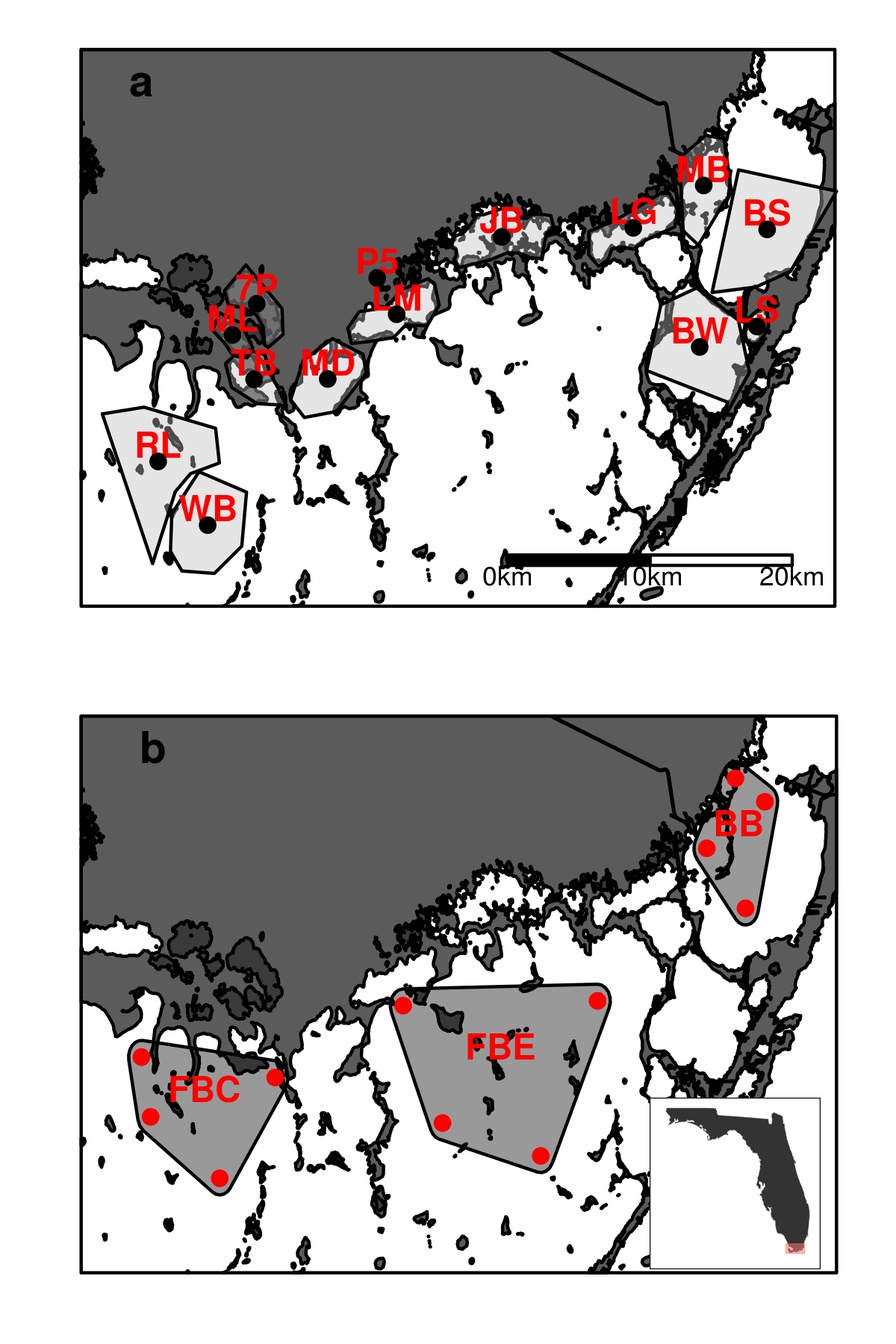
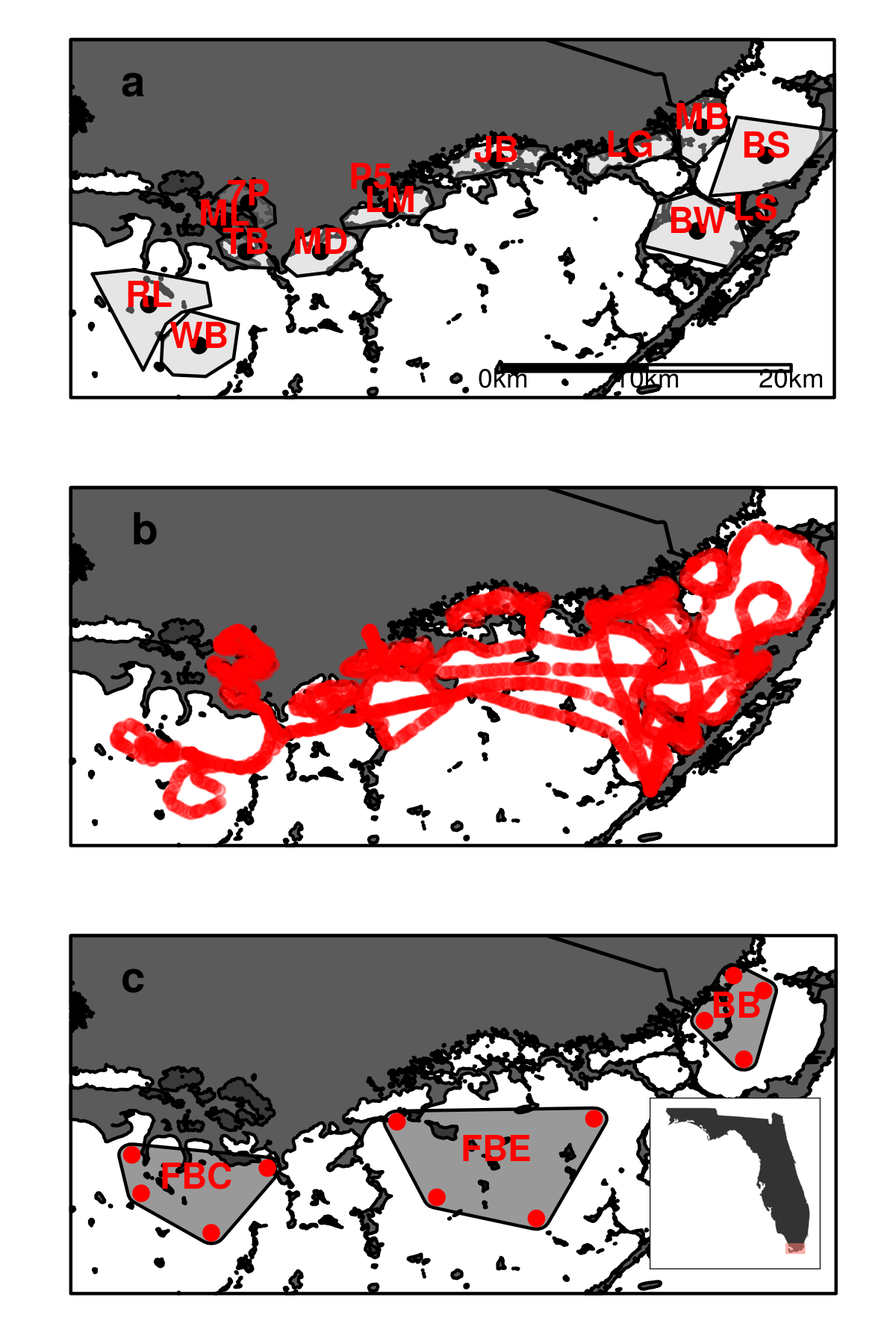
add dflow track panel to figure 1

diff --git a/manuscripts/ecss/dataflowchl.tex b/manuscripts/ecss/dataflowchl.tex
@@ -94,7 +94,7 @@ The Florida Bay estuary is fed by direct precipitation as well as a combination 
 
 \subsection{Underway-discrete sampling}
 
-We developed a method to better constrain estimates of phytoplankton abundance (using chlorophyll a as a proxy and referred to as chlorophyll hereafter) and to better identify within-basin variability in such estimates. Our method involves the use of a boat-mounted flow-through collection system \citep[Dataflow;][]{madden1992instrument} whereby a suite of optical probes are operated in tandem with discrete sample collection. While the boat is underway, the Dataflow receives a continuous stream of water from an onboard pump that is routed to a series of sensors operating in flow-through mode. These sensors measure the physical and optical properties of water passing through the system at 6 second intervals (approximately every 40-70 m of boat travel). The primary optical sensor package includes probes to measure  colored dissolved organic matter (CDOM), phycocyanin (PC), phycoerythrin (PE), turbidity, and chlorophyll fluorescence (Cyclops-7 Series; Turner Designs; Sunnyvale CA, USA). A second optical sensor package, which operates in tandem, includes probes to measure CDOM and chlorophyll fluorescence (GEOSAI SA de CV). Measurements are georeferenced by an onboard GPS unit with a horizontal accuracy of ± 250 cm. Each Dataflow survey took place on a quarterly to bi-monthly basis from 2008 - 2015 and was supplemented by a set of concomitant discrete grab samples located in a representative basin or area of distinct water quality (Figure 1a). These samples were collected from the Dataflow outflow hose while underway and were analyzed in the laboratory for chlorophyll concentration via pigment extraction as well as a suite of organic and inorganic nutrient species (Table 1). Laboratory analyses followed the methods described in \citet{childers_relating_2006}.
+We developed a method to better constrain estimates of phytoplankton abundance (using chlorophyll a as a proxy and referred to as chlorophyll hereafter) and to better identify within-basin variability in such estimates. Our method involves the use of a boat-mounted flow-through collection system \citep[Dataflow;][]{madden1992instrument} whereby a suite of optical probes are operated in tandem with discrete sample collection. While the boat is underway, the Dataflow receives a continuous stream of water from an onboard pump that is routed to a series of sensors operating in flow-through mode. These sensors measure the physical and optical properties of water passing through the system at 6 second intervals (approximately every 40-70 m of boat travel). The primary optical sensor package includes probes to measure  colored dissolved organic matter (CDOM), phycocyanin (PC), phycoerythrin (PE), turbidity, and chlorophyll fluorescence (Cyclops-7 Series; Turner Designs; Sunnyvale CA, USA). A second optical sensor package, which operates in tandem, includes probes to measure CDOM and chlorophyll fluorescence (GEOSAI SA de CV). Measurements are georeferenced by an onboard GPS unit with a horizontal accuracy of ± 250 cm. Each Dataflow survey took place on a quarterly to bi-monthly basis from 2008 - 2015 and was supplemented by a set of concomitant discrete grab samples located in a representative basin or area of distinct water quality (Figure 1a, 1b). These samples were collected from the Dataflow outflow hose while underway and were analyzed in the laboratory for chlorophyll concentration via pigment extraction as well as a suite of organic and inorganic nutrient species (Table 1). Laboratory analyses followed the methods described in \citet{childers_relating_2006}.
 
 For each survey, we used multiple linear regression to model the chlorophyll concentration of the underway discrete grab samples as a function of corresponding optical measurements \citep{seppala_ship_opportunity_2007,seppala_multivariate_2008}. Initial regressions included all available optical measurements. These “full“ models were subject to a model selection procedure where the goodness-of-fit and complexity of candidate models were compared using Akaike information criterion \citep[AIC;][]{venables2002modern}. Several models with the lowest AIC values were further investigated to examine normality of residuals and avoid multicollinearity. Also, we checked that coefficients had a logically consistent sign in cases where we had strong prior belief (e.g. the coefficient of chlorophyll fluorescence should be positive). 
 Final models were applied to the full streaming dataset to estimate chlorophyll concentration in areas where underway discrete grab samples were not collected. In order to avoid model extrapolation, calculated values that exceeded the maximum concentration in the discrete sample set were discarded. Due to the presence of many land barriers throughout the study area, the resulting georeferenced datasets were spatially interpolated using Inverse Path Distance Weighting (IPDW) according to the methods described in \citet{stachelek_application_2015}. IPDW is similar to the more typical Inverse Distance Weighting (IDW) procedure except that distances are "in-water” path distances rather than "as-the-crow-flies" straight line distances. This prevents interpolations from bleeding through” land barriers. All statistical analyses and interpolation routines were performed using R, the ipdw package, and the DataflowR package \citep{rcore_2015,dataflowr, ipdw}. All code used to generate figures and tables is available from \citet{dataflowchl} and all data used in this study are available for download \citep{madden2017}.
@@ -105,43 +105,43 @@ We considered two approaches for quantifying water quality boundaries. The first
 
 \subsection{Discrete data collection}
 
-We used data from an independent long-term (1993-2015) water quality monitoring program to contrast findings from a typical discrete sampling program with the results from our combined underway-discrete sampling efforts. These data come from a monitoring program of the South Florida Water Management District and are freely available via the DBHYDRO database \citep{dbhydror}. For visualization purposes, the data was split into geographic regions encompassing three distinct sections of our study area, Biscayne Bay, eastern Florida Bay, and central Florida Bay following \citet{boyer_seasonal_1999} in the open water portions of Florida Bay (Figure 1b). The area covered by this network is more limited than the Dataflow footprint which also includes several saline lakes and semi-enclosed embayments within the wetland zone adjacent to the bay. Data from this longer-term dataset were used as an independent check to verify our underway measurements and interpolated surfaces (See Appendix Table A1).
+We used data from an independent long-term (1993-2015) water quality monitoring program to contrast findings from a typical discrete sampling program with the results from our combined underway-discrete sampling efforts. These data come from a monitoring program of the South Florida Water Management District and are freely available via the DBHYDRO database \citep{dbhydror}. For visualization purposes, the data was split into geographic regions encompassing three distinct sections of our study area, Biscayne Bay, eastern Florida Bay, and central Florida Bay following \citet{boyer_seasonal_1999} in the open water portions of Florida Bay (Figure 1c). The area covered by this network is more limited than the Dataflow footprint which also includes several saline lakes and semi-enclosed embayments within the wetland zone adjacent to the bay. Data from this longer-term dataset were used as an independent check to verify our underway measurements and interpolated surfaces (See Appendix Table A1).
 
 \section{Results}
 
-We observed two notable features in the long-term discrete chlorophyll record. First, we observed a declining trend in the central bay (Figure 2a). Average chlorophyll concentration was 2.2 ± 0.05 from 2001 to 2008 but was only 1.3 ± 0.04 from 2008 to 2015. Second, we observed a period of exceptionally high chlorophyll concentrations in 2005 associated with an algal bloom event in Barnes Sound \citep{rudnick_2006}. Following recovery from the 2005 bloom event, chlorophyll concentrations were almost exclusively lower than 2 in all three regions of the open bay (Figure 2b). Exceptions to this threshold occurred following the summer of 2009, which was preceded by a major drought, and following the summer of 2012 when cumulative precipitation was the highest of any year during the study period (151.8 cm versus an annual median of 125.3 cm).
+We observed two notable features in the long-term discrete chlorophyll record. First, we observed a declining trend in the central bay (Figure 2a). Average chlorophyll concentration was 2.2 $\pm$ 0.05 from 2001 to 2008 but was only 1.3 $\pm$ 0.04 from 2008 to 2015. Second, we observed a period of exceptionally high chlorophyll concentrations in 2005 associated with an algal bloom event in Barnes Sound \citep{rudnick_2006}. Following recovery from the 2005 bloom event, chlorophyll concentrations were almost exclusively lower than 2 in all three regions of the open bay (Figure 2b). Exceptions to this threshold occurred following the summer of 2009, which was preceded by a major drought, and following the summer of 2012 when cumulative precipitation was the highest of any year during the study period (151.8 cm versus an annual median of 125.3 cm).
 
-We investigated the incidence of elevated chlorophyll in more detail by examining correlations between chlorophyll and individual nutrient species (Table 1). Chlorophyll was most strongly correlated with total phosphorus (Spearman’s ρ = 0.74, p < 0.05) and particulate phosphorus (Spearman’s ρ = 0.90, p < 0.05). Note that such correlations do not necessarily demonstrate a relationship between phytoplankton abundance and a given nutrient species because of the possibility that high nutrient concentrations do not represent bioavailable nutrients but instead represent cellular bound material within existing phytoplankton cells.  
+We investigated the incidence of elevated chlorophyll in more detail by examining correlations between chlorophyll and individual nutrient species (Table 1). Chlorophyll was most strongly correlated with total phosphorus (Spearman’s ρ = 0.74, p $<$ 0.05) and particulate phosphorus (Spearman’s ρ = 0.90, p $<$ 0.05). Note that such correlations do not necessarily demonstrate a relationship between phytoplankton abundance and a given nutrient species because of the possibility that high nutrient concentrations do not represent bioavailable nutrients but instead represent cellular bound material within existing phytoplankton cells.  
 
 We found that spatially comprehensive estimates of phytoplankton abundance were subject to less uncertainty when estimated on the basis of combined underway-discrete sampling. In particular, there were relatively few surveys where the best model only included chlorophyll fluorescence (Table 2). In general, the performance of these chlorophyll only models was poor relative to their multivariate counterparts with respect to their coefficients of determination and p-value (Table 2). One of the primary reasons for improved estimates was the fact that underway-discrete sampling included not only chlorophyll fluorescence but also potential interference materials. For example, the variables selected during interpolation model-selection often included phycocyanin and CDOM (Table 2). The selection of phycocyanin as a model variable was not associated with any particular season while CDOM was an important variable only during the dry season surveys (Table 2). 
 
-In some ways, the spatial distribution of phytoplankton abundance estimated from strictly discrete sampling matched our estimates made on the basis of combined discrete and underway sampling. Both estimates showed a general decreasing west to east chlorophyll gradient and both showed particularly low chlorophyll concentrations in the eastern bay relative to the central bay or Barnes Sound regions (Figure 2, 3, 5). In addition, both estimates showed a similarly sized chlorophyll peak in the central bay in late 2012 (Figure 2, 5). However, despite the superficial similarities between the spatial patterns recovered by strictly discrete sampling and by our underway-discrete sampling approach, there were marked differences in their within-basin spatial variability (Figure 3, 5). This was evident in the fact that the locations and shapes of water quality boundaries estimated on the basis of underway sampling did not correspond to those that used strictly discrete data (Figure 2, 3, 5). In contrast to the discrete sampling results (with the exception of July and September 2015), our underway-discrete maps did not show distinct water quality boundaries between the central and eastern bay (Figure 5). We did, however, observe consistent and distinct boundaries between the Seven Palm chain-of-lakes (Seven Palm Lake, Monroe Lake, Terrapin Bay) and the central bay in both the discrete sampling results and the underway-discrete maps (Figure 1, 3, 5). 
+In some ways, the spatial distribution of phytoplankton abundance estimated from strictly discrete sampling matched our estimates made on the basis of combined discrete and underway sampling. Both estimates showed a general decreasing west to east chlorophyll gradient and both showed particularly low chlorophyll concentrations in the eastern bay relative to the central bay or Barnes Sound regions (Figure 2, 3, 5). In addition, both estimates showed a similarly sized chlorophyll peak in the central bay in late 2012 (Figure 2, 5). However, despite the superficial similarities between the two approaches, there were marked differences in the degree to which they were able to recover within-basin spatial variability (Figure 3, 5). This was evident in the fact that the locations and shapes of water quality boundaries estimated on the basis of underway sampling did not correspond to those that used strictly discrete data (Figure 2, 3, 5). In contrast to the discrete sampling results (with the exception of July and September 2015), our underway-discrete maps did not show distinct water quality boundaries between the central and eastern bay (Figure 5). We did, however, observe consistent and distinct boundaries in both the discrete sampling results and the underway-discrete maps at the transition between the Seven Palm chain-of-lakes (Seven Palm Lake, Monroe Lake, Terrapin Bay) and the central bay (Figure 1, 3, 5). 
 
-To some extent, temporal trends in the spatial distribution of phytoplankton abundance over multiple surveys appear to correspond with temporal variations in precipitation (Figure 2b, 2c, 5). Indeed, many of the surveys, which showed elevated chlorophyll concentrations extending over large portions of the study area, were coincident with observations of high precipitation and low salinity (Figure 4, 5). In contrast to these periods of broad chlorophyll increases, the development of localized chlorophyll boundaries did not correspond with relatively wet periods when there was likely to be high watershed export (Figure 2c, 6). Instead, they were much more prominent during the relatively dry periods, which lagged high watershed export, most notably in 2012 and to a lesser extent in 2009 (Figure 2, 5, 6). The timing of chlorophyll boundary development also contrasted with the timing of salinity boundary development which was coincident with low salinity periods (Figure 6b).
+To some extent, temporal trends in the spatial distribution of phytoplankton abundance over multiple surveys appear to correspond with temporal variations in precipitation (Figure 2b, 2c, 5). Indeed, many of the surveys, which showed elevated chlorophyll concentrations extending over large portions of the study area, were coincident with observations of high precipitation and low salinity (Figure 4, 5). In contrast to these periods of broad chlorophyll increases, the development of localized chlorophyll boundaries did not correspond with relatively wet periods when there was likely to be high watershed export (Figure 2c, 6). Instead, they were more prominent during the relatively dry periods, which lagged high watershed export, most notably in 2012 and to a lesser extent in 2009 (Figure 2, 5, 6). The timing of chlorophyll boundary development also contrasted with the timing of salinity boundary development such that salinity boundary development was coincident with periods of high watershed export (Figure 6b).
 
 \section{Discussion}
 
-We have shown that estimates of phytoplankton abundance may be best constrained using an underway-discrete sampling approach and that such mapping can yield important insights into spatial variation in these estimates on the sub-basin scale. In particular, we found that models, which include many different parameters with potential interference effects such as CDOM, outperformed both discrete sampling approaches and underway-discrete approaches where chlorophyll fluorescence was the sole covariate (Table 2). In addition, we found that water quality boundaries identified on the basis of underway sampling differ from discretely identified boundaries and were related to climatic variability as well as specific landscape features (Figure 2-6).
+We have shown that estimates of phytoplankton abundance may be best constrained using a combined underway-discrete sampling approach and that mapping of these estimates can yield important insights into spatial variation on the sub-basin scale. In particular, we found that models, which include many different parameters with potential interference effects such as CDOM, outperformed both discrete sampling approaches and underway-discrete approaches where chlorophyll fluorescence was the sole covariate (Table 2). In addition, we found that water quality boundaries identified on the basis of underway sampling differ from discretely identified boundaries and were related to climatic variability as well as specific landscape features (Figure 2-6).
 
 \subsection{Phytoplankton abundance}
 
-Phytoplankton abundance is typically estimated on the basis of strictly discrete sampling within long-term monitoring networks. In the present study, we found two lines of evidence to suggest that such estimates may be affected by the fact that discrete sampling programs typically do not measure phytopigments or potential interference materials such as colored dissolved organic matter. The first line of evidence was the fact that few of our surveys retained fluorescence readings from either the primary or secondary Dataflow chlorophyll probes in the “best” model outcome of our variable selection procedure (Table 2). Some of the poor fit of chlorophyll-only fluorescence models may have been due to relatively small per-survey sample sizes or variations in the physiological condition of the phytoplankton community \citep{goldman2013estimation}. However, we did observe that phycocyanin was often an important fluorescence parameter in these instances. This finding is broadly consistent with prior observations that algal blooms in Florida Bay are primarily composed of the phycocyanin containing cyanobacteria Synechococcus \citep{phlips_blooms_1999, shangguan2017phytoplankton}. In addition, our observation that phycocyanin and chlorophyll were rarely selected in the same survey suggests that the relative abundance of cyanobacteria and other phytoplankton are regulated by competitive exclusion \citep{passarge2006competition}. 
+Phytoplankton abundance is typically estimated on the basis of strictly discrete sampling within long-term monitoring networks. In the present study, we found two lines of evidence to suggest that such estimates may be affected by the fact that discrete sampling programs typically do not measure phytopigments or potential interference materials such as colored dissolved organic matter. The first line of evidence was the fact that few of our surveys retained fluorescence readings from either the primary or secondary Dataflow chlorophyll probes in the “best” model outcome of our variable selection procedure (Table 2). Some of the poor fit of chlorophyll-only fluorescence models may have been due to relatively small per-survey sample sizes or variations in the physiological condition of the phytoplankton community \citep{goldman2013estimation}. However, we did observe that phycocyanin was often an important fluorescence parameter in these instances. This finding is broadly consistent with prior observations that algal blooms in Florida Bay are primarily composed of the phycocyanin containing cyanobacteria Synechococcus \citep{phlips_blooms_1999, shangguan2017phytoplankton}. In addition, our observation that phycocyanin and chlorophyll were rarely selected in the same survey suggests that the relative abundance of cyanobacteria and other phytoplankton may be regulated by competitive exclusion \citep{passarge2006competition}. 
 
-The second line of evidence is that CDOM measurements were critical in deriving accurate estimates of phytoplankton abundance (Table 2). Indeed, CDOM is known to affect the performance of optical chlorophyll probes. Contrary to our expectation, we found that CDOM was an important variable only during dry season surveys when watershed exports were likely low. This was unexpected as terrestrial watershed export is known to be a primary source of CDOM. In our case study, the reason that CDOM was selected as an important variable only in the dry season is unknown. One clue may be that CDOM was almost always selected in the same survey as chlorophyll fluorescence (Table 2). If CDOM promotes phytoplankton growth as demonstrated by \citet{traving2017effect}, this suggests that microbially derived CDOM from local sources may be an important component of dry season nutrient cycling.
+The second line of evidence is that CDOM measurements were critical in deriving accurate estimates of phytoplankton abundance (Table 2). Indeed, CDOM is known to affect the performance of optical chlorophyll probes (citation). Contrary to our expectation, we found that CDOM was an important variable only during dry season surveys when watershed exports were likely low. This was unexpected as terrestrial watershed export is known to be a primary source of CDOM (citation). In our case study, the reason that CDOM was selected as an important variable only in the dry season is unknown. One clue may be that CDOM was almost always selected in the same survey as chlorophyll fluorescence (Table 2). If CDOM promotes phytoplankton growth as demonstrated by \citet{traving2017effect}, this suggests that microbially derived CDOM from local sources may be an important component of dry season nutrient cycling.
 
 \subsection{Spatial variability}
 
-Many discrete sampling networks have been continuously operated for multiple decades and have provided great insight into the seasonality and interannual variability associated with phytoplankton abundance across broad (>10 km) geographic scales \citep{cloern_patterns_2010}. Our analysis of the long-term discrete chlorophyll record in Florida Bay is broadly consistent with the findings of prior studies that discrete sampling networks are effective at revealing temporal trends in water quality patterns. For example, in our case study, we were able to identify a declining chlorophyll trend in the central bay as well as the development of a severe algal bloom event in 2005. Furthermore, the coincident sampling of several nutrient species allowed us to examine such variations relative to likely drivers of phytoplankton abundance such as nutrient concentrations. Although, correlations between nutrients concentrations and phytoplankton abundance do not necessarily demonstrate a causative relationship, our finding of a strong correlation between chlorophyll and particulate phosphorus is consistent with prior studies \citep[Table 1;][]{fourqurean1993process}. Note that such correlations may simply reflect the presence of cellular bound material within existing phytoplankton cells rather than bioavailable nutrients for phytoplankton growth. 
+Many discrete sampling networks have been continuously operated for multiple decades and have provided great insight into the seasonality and interannual variability associated with phytoplankton abundance across broad (>10 km) geographic scales \citep{cloern_patterns_2010}. Our analysis of the long-term discrete chlorophyll record in Florida Bay is broadly consistent with the findings of prior studies that discrete sampling networks are effective at revealing temporal trends in water quality patterns. For example, in our case study, we were able to identify a declining chlorophyll trend in the central bay as well as the development of a severe algal bloom event in 2005 (citation). Furthermore, the coincident sampling of several nutrient species allowed us to examine such variations relative to likely drivers of phytoplankton abundance. Although, correlations between nutrients concentrations and phytoplankton abundance do not necessarily demonstrate a causative relationship, our finding of a strong correlation between chlorophyll and particulate phosphorus is consistent with prior studies \citep[Table 1;][]{fourqurean1993process}. Note that such correlations may simply reflect the presence of cellular bound material within existing phytoplankton cells rather than bioavailable nutrients for phytoplankton growth. 
 
-Although discrete sampling networks may be effective tools for examining temporal trends in water quality patterns, they may be less effective for examining spatial variations. One reason is that they typically have a relatively large spatial grain (distance between sampling points) whereby a given interpolation point, which is not coincident with any discrete sampling point, is subject to a high degree of uncertainty. Another reason is because the layout of a particular network can be misaligned with the water quality pattern of interest at a given point in time. 
+Although discrete sampling networks may be effective tools for examining temporal trends in water quality patterns, they may be less effective for examining spatial variations. One reason is that they typically have a relatively large spatial grain (distance between sampling points) whereby a given interpolation point, which is not coincident with any discrete sampling point, is subject to a high degree of uncertainty \citep{anttila2008feasible}. Another reason is that the layout of a particular network can be misaligned with the water quality pattern of interest (at a given point in time). Our underway-discrete mapping approach avoided both of these issues by providing a fundamentally different data product than previous efforts involving either strictly discrete estimates or spatial interpolation of discrete sampling network data \citep{fourqurean1993process}. In particular, our estimates of spatial variability had lower uncertainty. This was due in part to the fact that we had a smaller average distance between measurement and interpolation points (Figure 1b). Our underway-discrete sampling was unlikely to be misaligned with any particular water quality feature due to the comprehensive nature of our underway-discrete sampling track (Figure 1b). 
 
-Our underway-discrete mapping approach avoided both of these issues by providing a fundamentally different data product than previous efforts involving either strictly discrete estimates or spatial interpolation of discrete sampling network data \citep{fourqurean1993process}. The first benefit of our approach was that it provided high resolution information in areas outside the scope of the discrete sampling network such as the southeastern edge of Barnes Sound and the saline lakes upstream of the central bay (Figure 3, 5). These saline lakes are of great interest in part because they often have high phosphorus concentrations and high phytoplankton abundance despite the fact that they receive minimal anthropogenic P inputs (Table 1, Figure 7). One possibility is that these lakes receive P inputs from the bay itself during reverse-flow events, storing this P (possibly abiotically via adsorption to particles as well as submerged aquatic vegetation biomass), and releasing this stored P as a function of senescence or disturbance \citep{rudnick1999phosphorus}.
+An additional benefit of our approach was that it provided high resolution information in areas outside the scope of the discrete sampling network such as the southeastern edge of Barnes Sound and the saline lakes upstream of the central bay (Figure 3, 5). These saline lakes are of great interest in part because they often have high phosphorus concentrations and high phytoplankton abundance despite the fact that they receive minimal anthropogenic P inputs (Table 1, Figure 7). One possibility is that these lakes receive P inputs from the bay itself during reverse-flow events, storing this P (possibly abiotically via adsorption to particles as well as submerged aquatic vegetation biomass), and releasing this stored P as a function of senescence or disturbance \citep{rudnick1999phosphorus}.
 
 \subsection{Water quality boundaries}
 
 One of the reasons why we were able to resolve fine-scale water quality boundaries was that our IPDW interpolation approach honors barriers to flow in the landscape (i.e. prevents “bleeding” through islands and peninsulas). As a result, we were able to preserve intense water quality gradients among adjacent Florida Bay basins allowing them to be characterized and tracked over time. In particular, our mapping showed that the development of salinity boundaries was strongly associated with wet season precipitation (Figure 4, 6b). In contrast, the development of distinct chlorophyll boundaries was not associated with wet season precipitation when watershed exports are likely to be high. Rather, they were associated with the dry season following these wet periods (Figure 2, 5, 6a). The fact that we observed clear differences between the development of chlorophyll and salinity boundaries suggests that phytoplankton spatial patterns are not simply a result of watershed export but rather a more complex set of non-conservative autochthonous factors such as hydrodynamic circulation, benthic-pelagic coupling, and time lags associated with growth rates and life history \citep[Figure 6;][]{zhang_2014, lawrence2004wind}.
 
-One explanation for our observation that chlorophyll boundaries primarily develop in the dry season is that they are simply a lagged response to prior periods of high watershed exports. However, an alternative explanation is that they develop in response to disturbance caused by periods of extremely low rainfall cause conditions, high salinity, and low dissolved oxygen \citep{hall2016recurrence}. Such conditions have been implicated as a cause of widespread seagrass die-off in Florida Bay \citep{borum2005potential, zieman1999seagrass}. As seagrass biomass represents one of the largest reservoirs of nutrients in Florida Bay, die-off events have the potential to cause algal blooms by releasing large amounts of nutrients from the benthos to the water column \citep{fourqurean2012carbon, zhang2004potential}. One such event occurred during the course of the present study (July 2015) with dead seagrass encompassing an area of approximately 9000 ha in central Florida Bay \citep{hall2016recurrence}. This event was similar to past die-off events in that it followed a localized severe drought that resulted in hypersaline conditions followed by die-off \citep[Figure 4;][]{robblee1991mass}. The net effects of this event on water column conditions were likely not realized by the conclusion of the present study period. We continue to monitor water column conditions throughout the lifecycle of the die-off in order to expand our understanding of extreme events and their effect on the water quality in Florida Bay.
+One explanation for our observation that chlorophyll boundaries primarily develop in the dry season is that they are simply a lagged response to prior periods of high watershed exports. However, an alternative explanation is that they develop in response to disturbance caused by periods of extremely low rainfall, high salinity, and low dissolved oxygen conditions \citep{hall2016recurrence}. Such conditions have been implicated as a cause of widespread seagrass die-off in Florida Bay \citep{borum2005potential, zieman1999seagrass}. As seagrass biomass represents one of the largest reservoirs of nutrients in Florida Bay, die-off events have the potential to cause algal blooms by releasing large amounts of nutrients from the benthos to the water column \citep{fourqurean2012carbon, zhang2004potential}. One such event occurred during the course of the present study (July 2015) with dead seagrass encompassing an area of approximately 9000 ha in central Florida Bay \citep{hall2016recurrence}. This event was similar to past die-off events in that it followed a localized severe drought that resulted in hypersaline conditions followed by die-off \citep[Figure 4;][]{robblee1991mass}. The net effects of this event on water column conditions were likely not realized by the conclusion of the present study period. We continue to monitor water column conditions throughout the lifecycle of the die-off in order to expand our understanding of extreme events and their effect on the water quality in Florida Bay.
 
 \section{Conclusion}
 

diff --git a/manuscripts/ecss/figures_tables.tex b/manuscripts/ecss/figures_tables.tex
@@ -8,7 +8,7 @@
 \begin{figure*}
   \centering
   \includegraphics[width=0.75\textwidth]{../../figures/fbmap.png}
-  \caption{Locations of discrete grab sampling sites within Florida Bay, USA. Polygons represent variability in sampling location over the course of the study period. a) Underway grab sampling network (1993-2015): RL = Rankin Lake, WB = Whipray Basin, TB = Terrapin Bay, ML = Monroe Lake, 7P = Seven Palm Lake, MD = Madeira Bay, LM = Little Madeira Bay, P5 = Pond Five, JB = Joe Bay, LG = Long Sound, BW = Blackwater Sound, LS = Lake Surprise, MB = Manatee Bay, BS = Barnes Sound; b) Long-term grab sampling network (2008-2015): BB – Biscayne Bay, FBE – Florida Bay East, FBC = Florida Bay Central.}
+  \caption{Locations of discrete grab sampling sites within Florida Bay, USA. Polygons represent variability in sampling location over the course of the study period. a) Underway grab sampling network (1993-2015): RL = Rankin Lake, WB = Whipray Basin, TB = Terrapin Bay, ML = Monroe Lake, 7P = Seven Palm Lake, MD = Madeira Bay, LM = Little Madeira Bay, P5 = Pond Five, JB = Joe Bay, LG = Long Sound, BW = Blackwater Sound, LS = Lake Surprise, MB = Manatee Bay, BS = Barnes Sound; b) Representative track line of a Dataflow survey; c) Long-term grab sampling network (2008-2015): BB – Biscayne Bay, FBE – Florida Bay East, FBC = Florida Bay Central.}
   \label{fig:1}
 \end{figure*}
 
